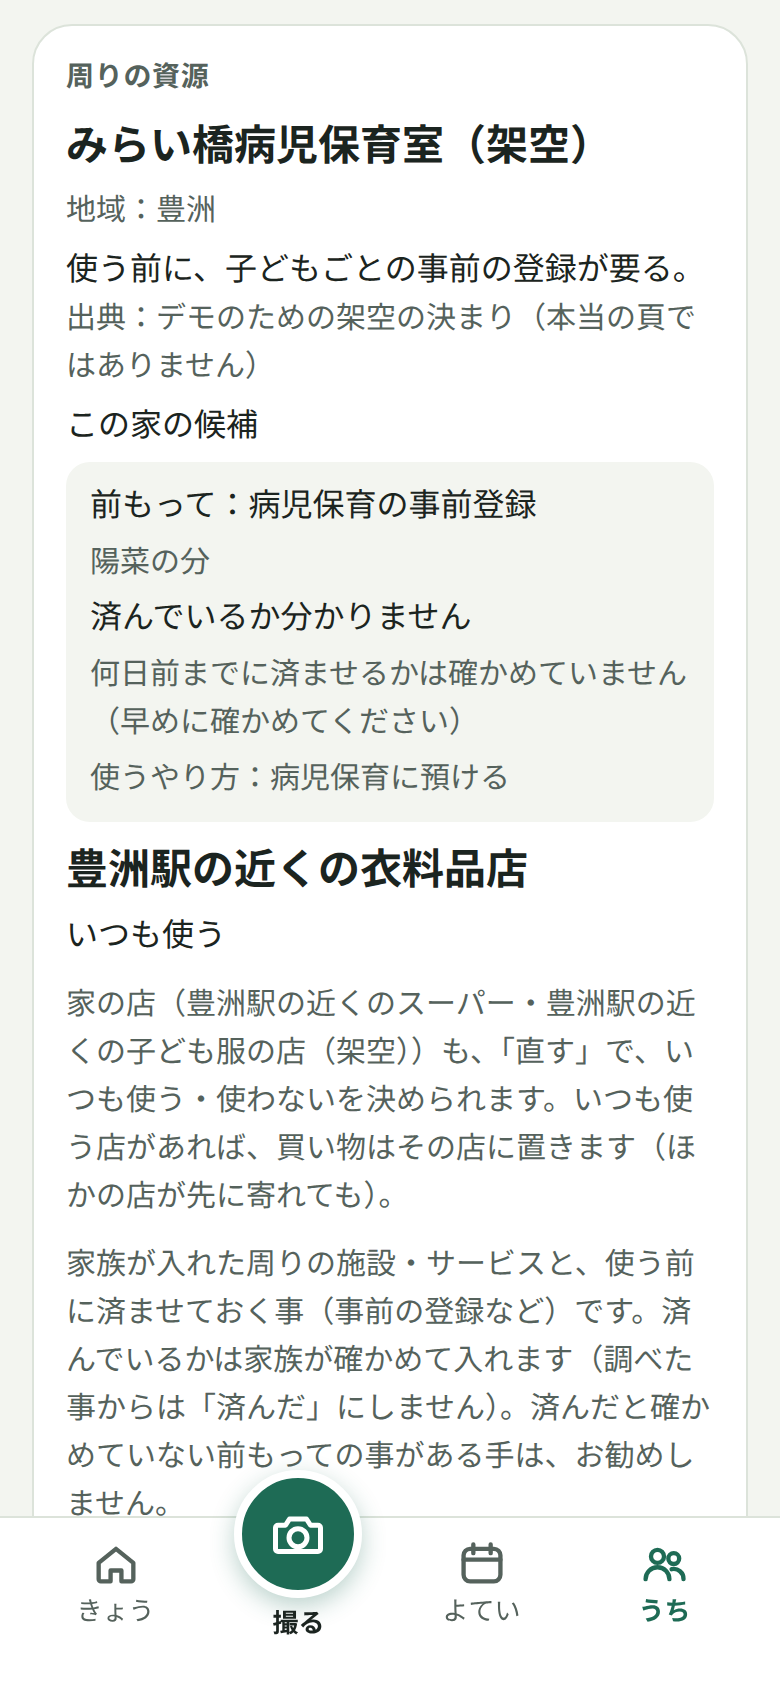
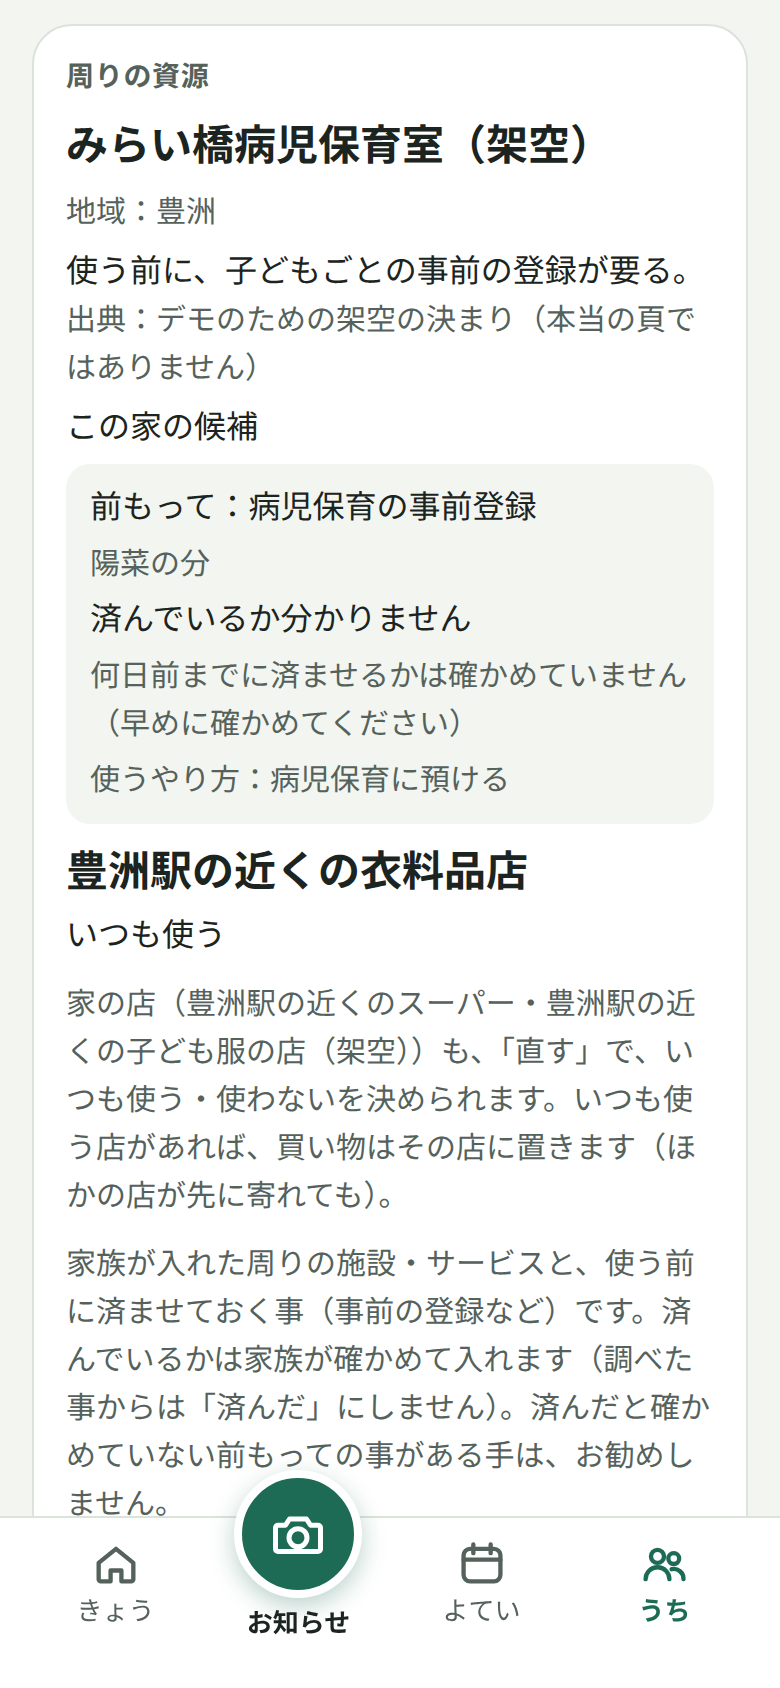
docs(readme): 写しの 6 枚を、今の画面の言葉で撮り直す
- d9ba280 の後に画面の字が変わり、README の写し（決める・周りの資源・変わること、日英）が今の画面と違って
  いた：下の欄の「撮る」を「お知らせ」に（a9fef6c）、決める画面のおすすめの理由と「元の文を見る」を短く
  （12d4cd2）、決め時にだれがする時かを添えた（1742508）。6 枚とも撮り直した。
- 撮り方は d9ba280 と同じ：手で書いた架空の地図の応答（道のりと営業時間）だけを持つ隔離のサーバー（鍵なし、
  外への通信なし。ブラウザでも外への要求を止め、止めた要求は 0 件）で、a9fef6c と同じ画面を 390×844 の 2 倍で
  撮った。入口は「用意した場面で見る（審査の方へ）」。架空の家族だけで、Google の応答から作った値は入っていない。
- 決める画面は、日付の行から写し、学童の札の「選んだら」が下の欄に隠れないようにした。
- 写っている中身（残る手と次に消える手、学童の決め時と選んだら、事前の登録、店が替わる事と時刻
  18:57 → 18:52）は前の写しと同じ。一枚目の alt（日英）は、写っている物に合わせて狭めた（どの手の決め時も
  見えるのではなく、学童の札だけが見える）。

Changed region(s): [[0.0923, 0.0924, 0.8923, 0.5237], [0.3077, 0.955, 0.4615, 0.9858], [0.7692, 0.3697, 0.8, 0.4313]]

diff --git a/README.en.md b/README.en.md
@@ -20,7 +20,7 @@ And the math only works if you know what's around your home. Does the sick-child
 
 | Compare decision deadlines | Around us | See what changes before saving |
 |---|---|---|
-| <img src="docs/images/decide.en.png" width="250" alt="Deciding child care for 陽菜: each option's decision deadline and what happens if you choose it"> | <img src="docs/images/around-us.en.png" width="250" alt="Around us: advance registration for a sick-child care room, and the usual store"> | <img src="docs/images/what-changes.en.png" width="250" alt="Setting the usual store to candidate shows, before saving, that the shirt errand moves to another store"> |
+| <img src="docs/images/decide.en.png" width="250" alt="Deciding child care for 陽菜: four choices left and which goes next, plus after-school care's estimated deadline and what you would start if you chose it"> | <img src="docs/images/around-us.en.png" width="250" alt="Around us: advance registration for a sick-child care room, and the usual store"> | <img src="docs/images/what-changes.en.png" width="250" alt="Setting the usual store to candidate shows, before saving, that the shirt errand moves to another store"> |
 
 All screens show the fictional demo family.
 

diff --git a/README.md b/README.md
@@ -20,7 +20,7 @@ Built with Claude: Japan 2026 応募作品
 
 | 決め時を比べる | 周りの資源 | 保存の前に、変わることを見る |
 |---|---|---|
-| <img src="docs/images/decide.ja.png" width="250" alt="陽菜の預け先を決める画面。手ごとの決め時と、選んだら何が起きるか"> | <img src="docs/images/around-us.ja.png" width="250" alt="周りの資源。病児保育室の事前の登録と、いつも使う店"> | <img src="docs/images/what-changes.ja.png" width="250" alt="いつもの店を候補にすると、シャツを買う店が替わることを保存の前に見せる"> |
+| <img src="docs/images/decide.ja.png" width="250" alt="陽菜の預け先を決める画面。残る4つの手と次に消える手、学童に預ける時の決め時と、選んだら始める作業"> | <img src="docs/images/around-us.ja.png" width="250" alt="周りの資源。病児保育室の事前の登録と、いつも使う店"> | <img src="docs/images/what-changes.ja.png" width="250" alt="いつもの店を候補にすると、シャツを買う店が替わることを保存の前に見せる"> |
 
 画面はすべて架空のデモの家族です。
 
